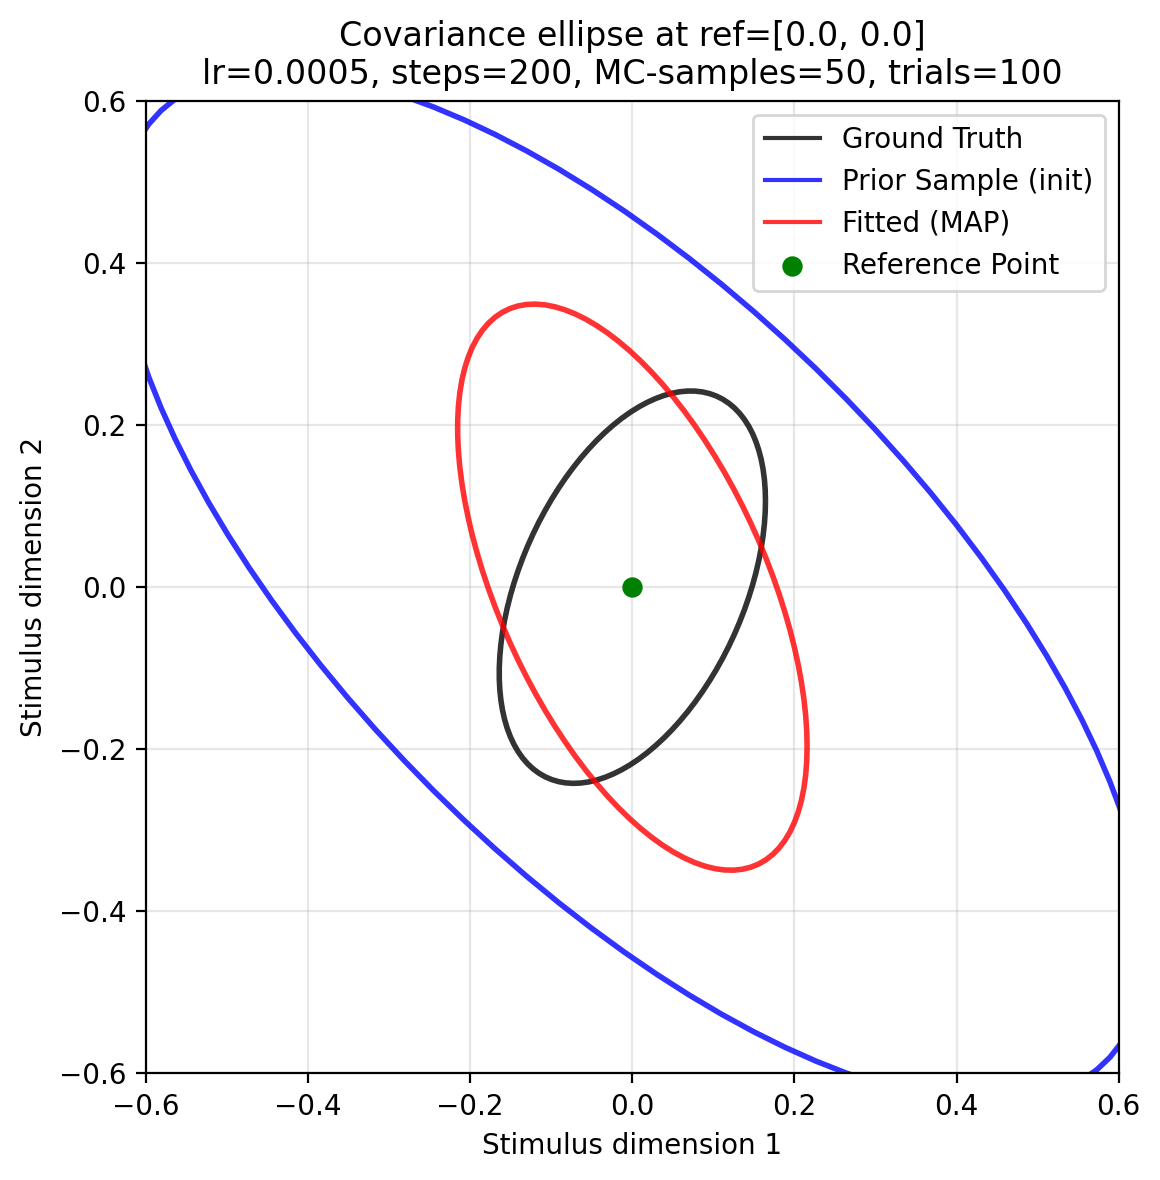
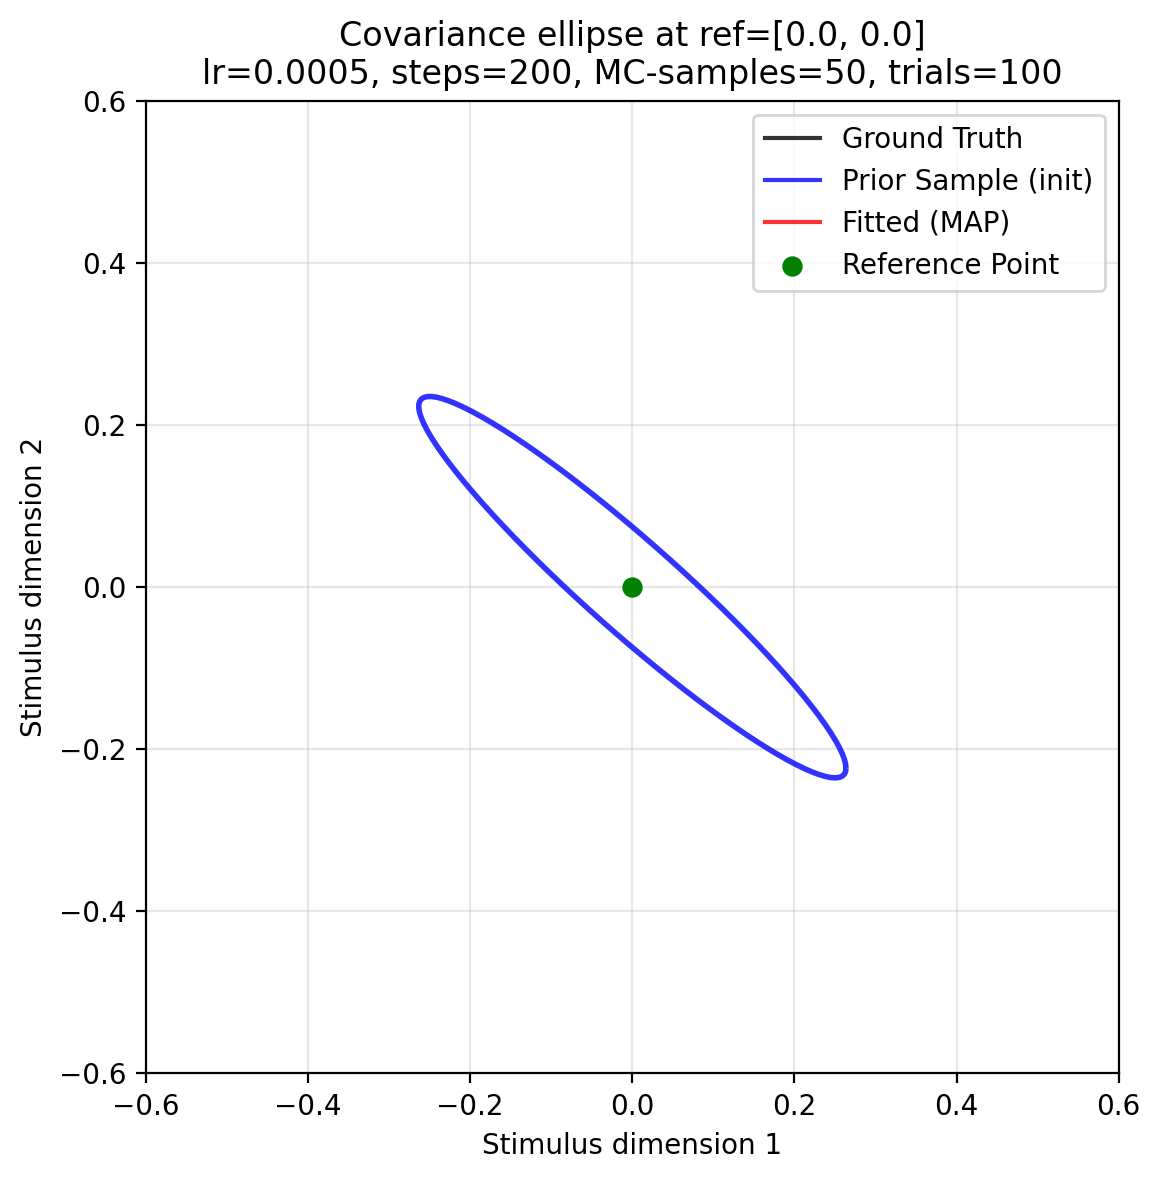
example results

diff --git a/src/psyphy/model/likelihood.py b/src/psyphy/model/likelihood.py
@@ -415,8 +415,6 @@ class GaussianTaskLikelihood(TaskLikelihood):
 
         jax.debug.callback(nan_loglik, log_likelihoods)
 
-        return jnp.sum(log_likelihoods)
-
     def simulate(
         self,
         params: Any,